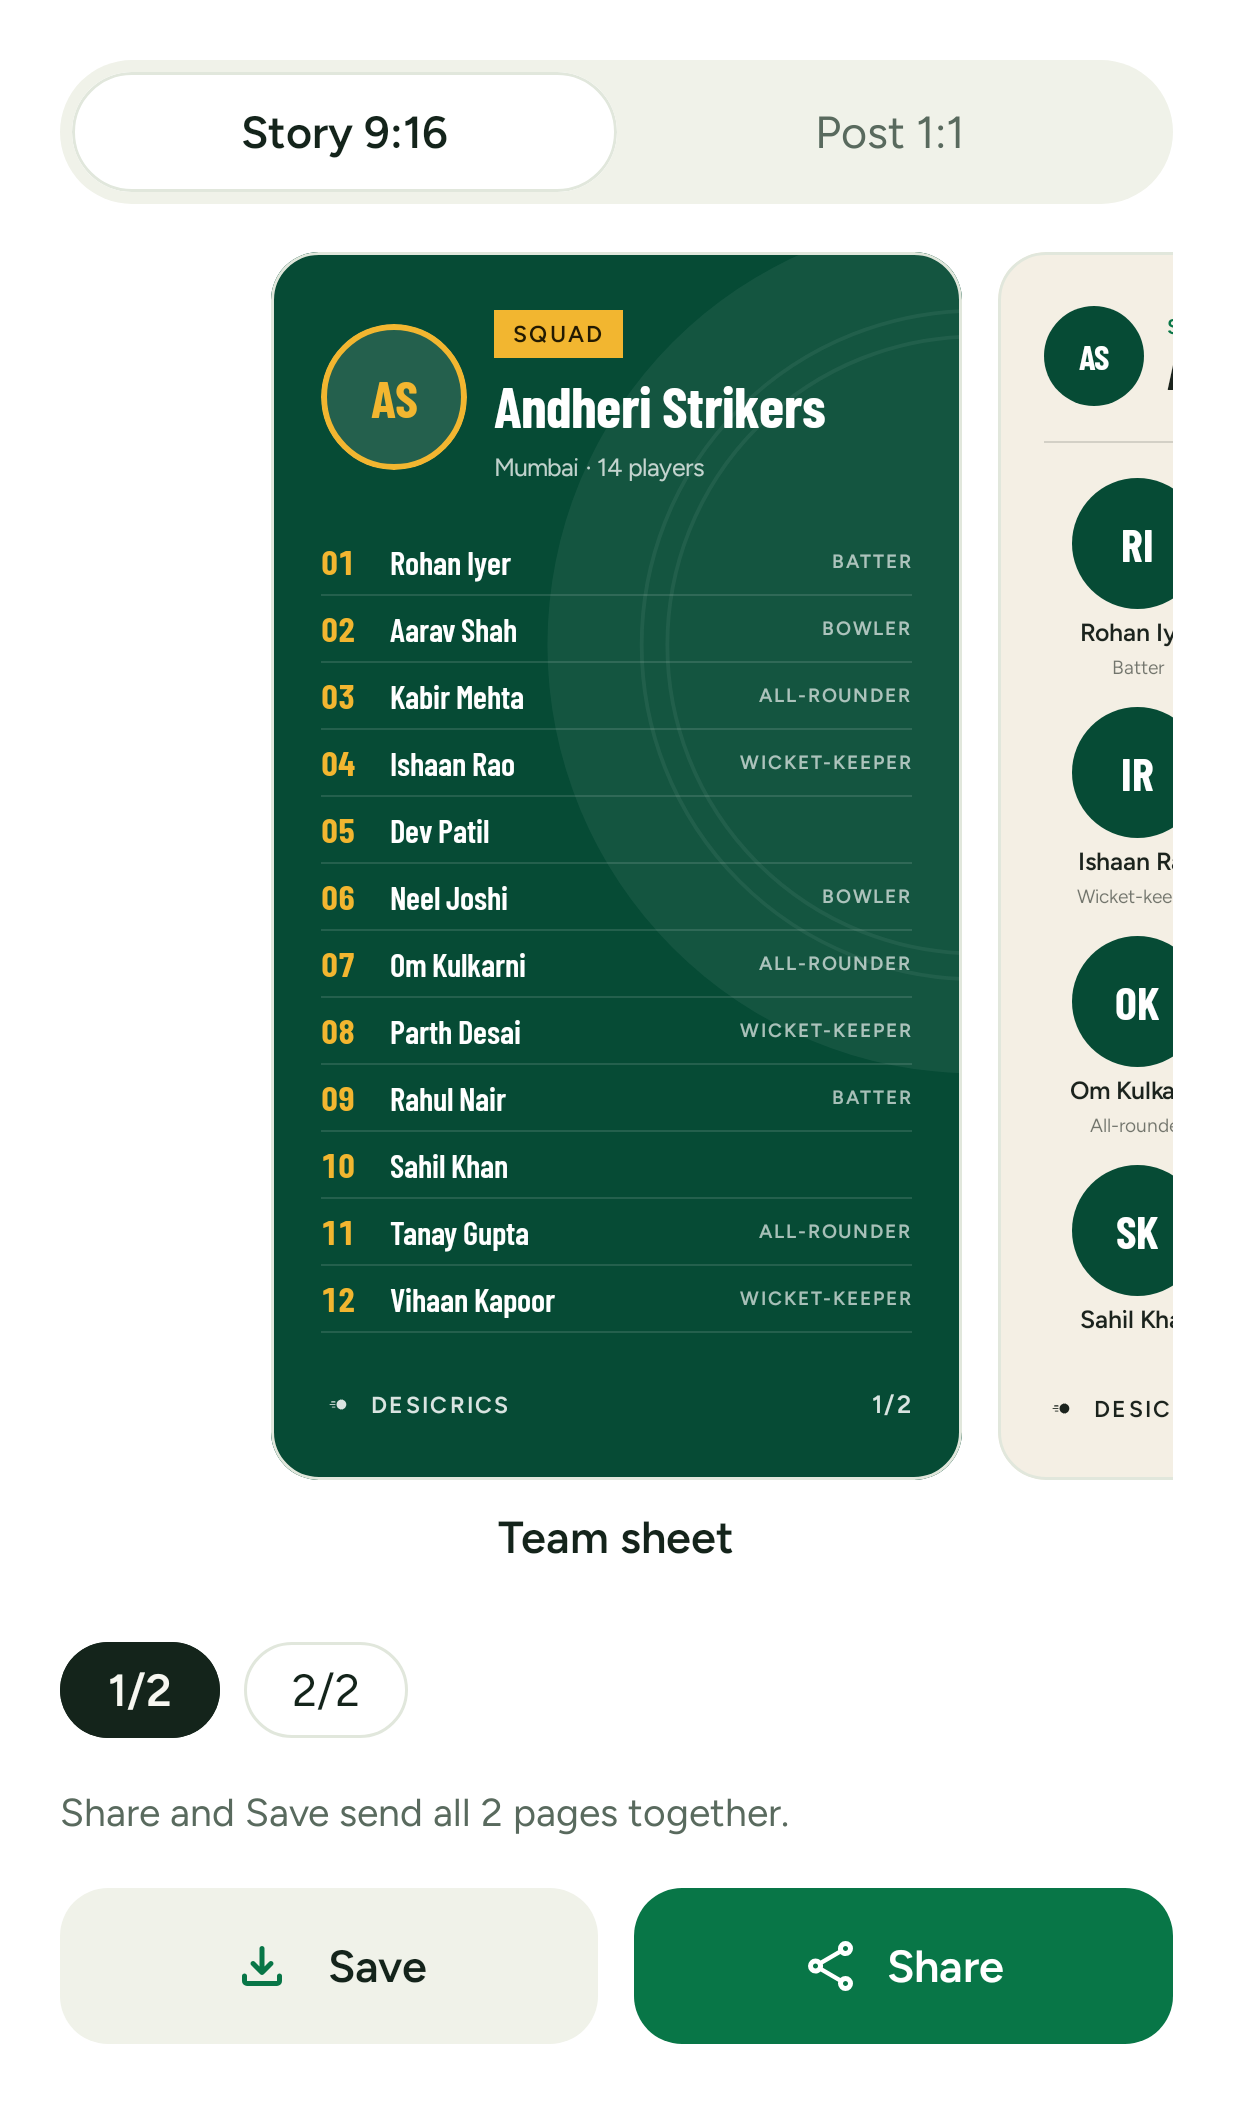
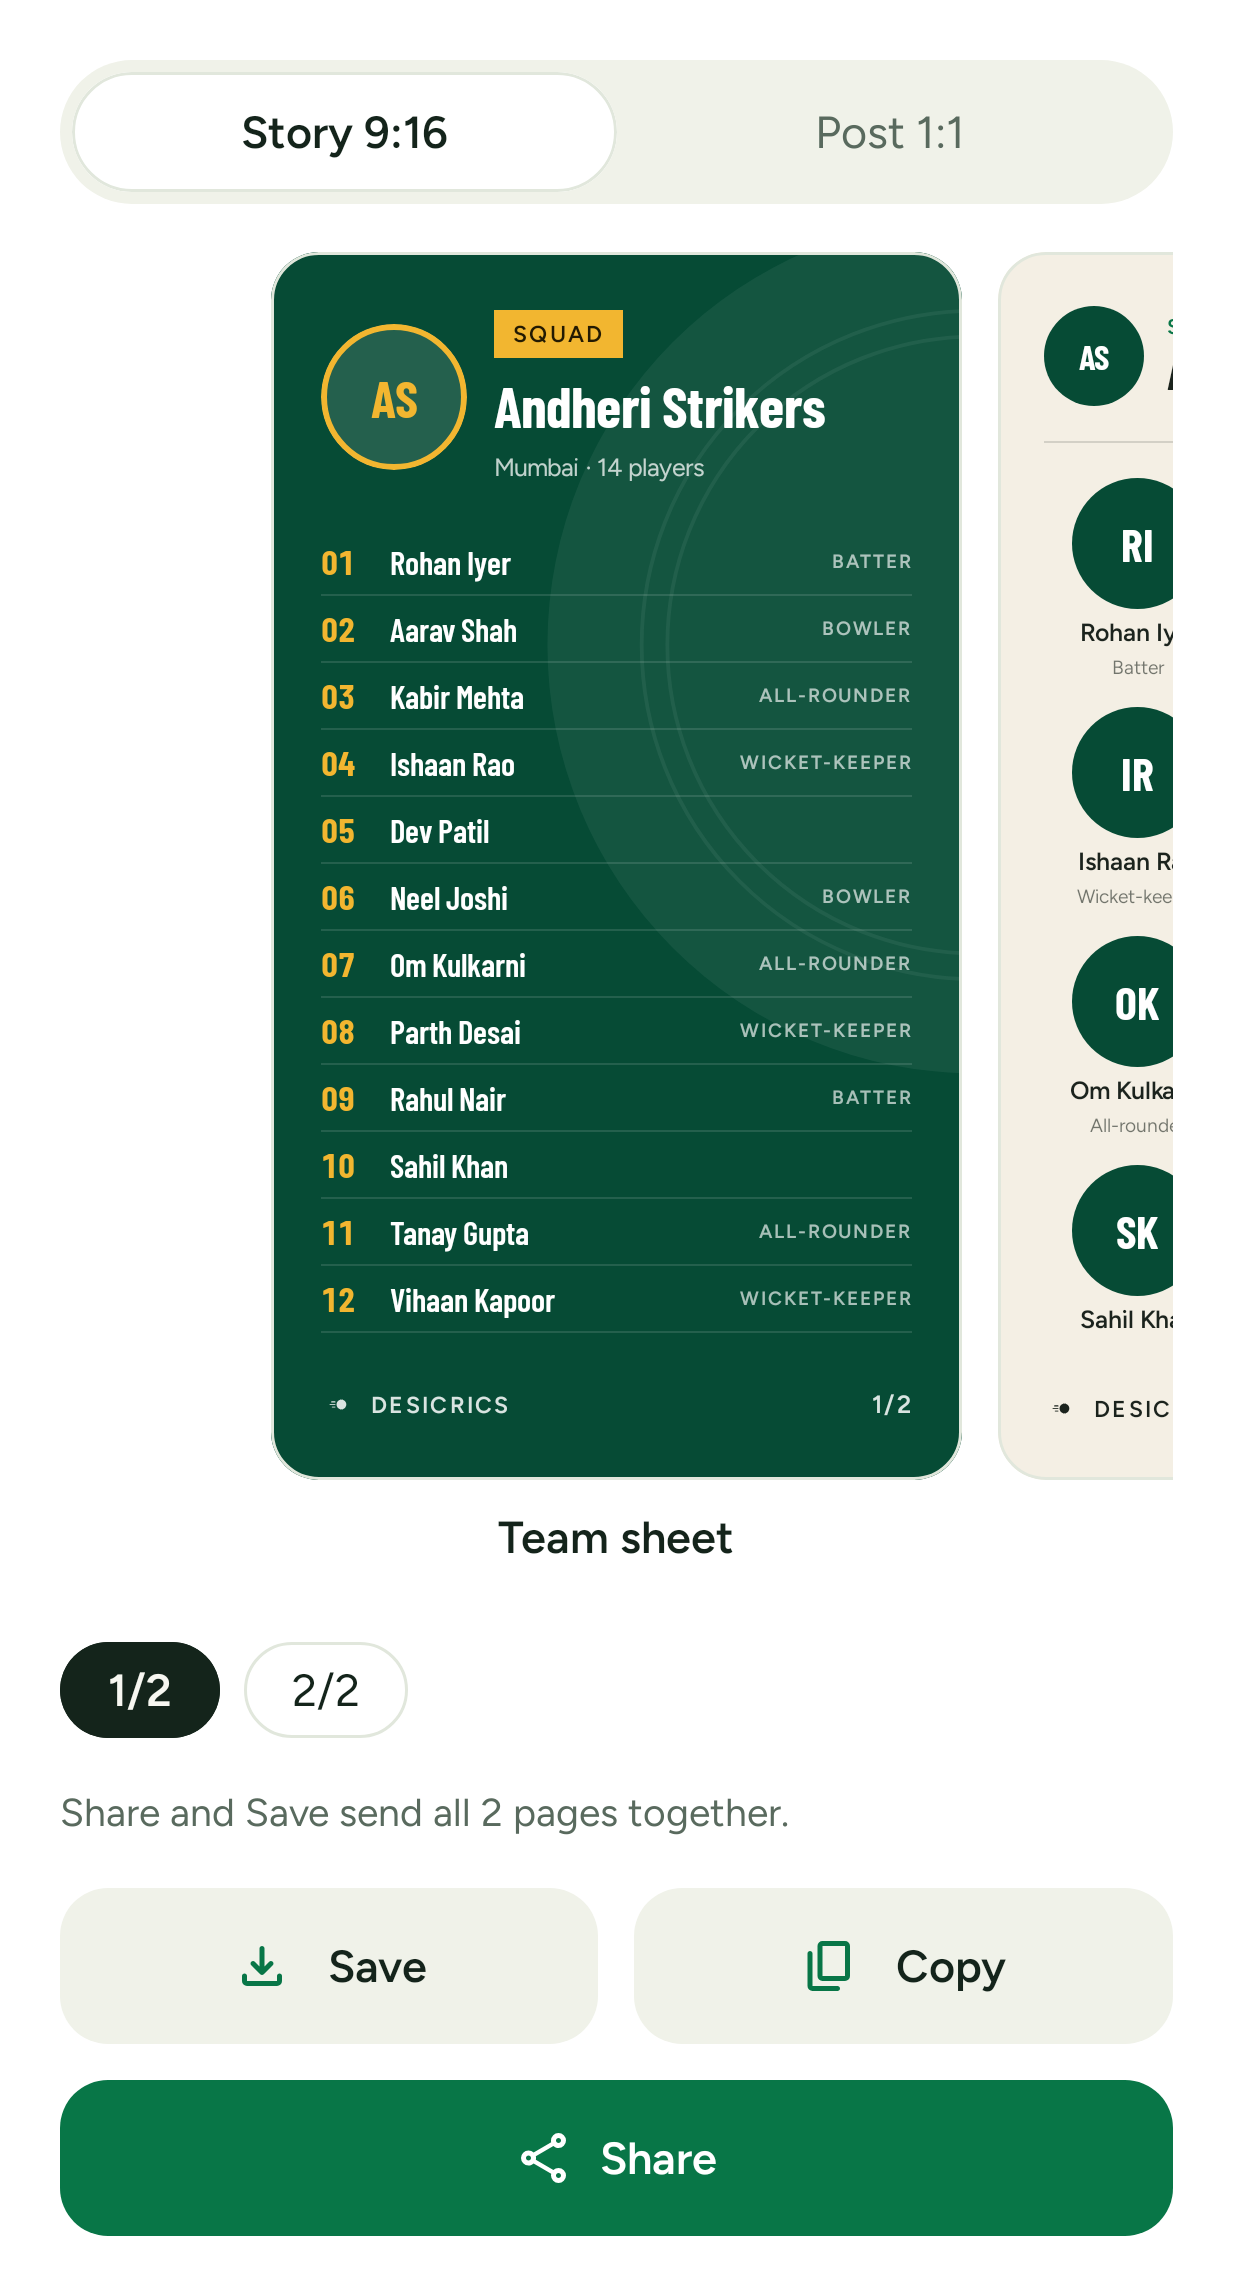
Let the share studio copy a card to the clipboard
A Copy button next to Save puts the page on show on the clipboard, ready
to paste into a chat. Save and Copy share a row and Share takes the full
width under them, since three buttons don't fit a small phone.

diff --git a/app/shared/src/commonMain/kotlin/com/harsh/desicrics/ui/share/ShareStudio.kt b/app/shared/src/commonMain/kotlin/com/harsh/desicrics/ui/share/ShareStudio.kt
@@ -51,18 +51,20 @@ import com.harsh.desicrics.designsystem.icon.DesiIcons
 import com.harsh.desicrics.designsystem.theme.DesiTheme
 import com.harsh.desicrics.resources.*
 import com.harsh.desicrics.ui.system.ImageFileFormat
+import com.harsh.desicrics.ui.system.rememberCopyImage
 import com.harsh.desicrics.ui.system.rememberSaveImage
 import com.harsh.desicrics.ui.system.rememberShareImage
 import kotlinx.coroutines.launch
 import org.jetbrains.compose.resources.painterResource
+import org.jetbrains.compose.resources.StringResource
 import org.jetbrains.compose.resources.stringResource
 
 /**
  * The share studio: one sheet for every picture DesiCrics makes. The user picks what to share from
  * [contents] (when there's more than one), swipes through its templates as live previews, picks story or
- * post, then shares the picture or saves it to the gallery. The picture is recorded from the preview
+ * post, then shares the picture, copies it, or saves it to the gallery. The picture is recorded from the preview
  * itself at full size, so it's exactly what was shown. A template with several pages shows a page picker,
- * and Share and Save take every page together.
+ * and Share and Save take every page together; Copy takes the page on show.
  *
  * [initial] is the key of the content to open on; [look] is the theme pictures are drawn in.
  */
@@ -76,6 +78,7 @@ fun ShareStudio(
 ) {
     val shareImage = rememberShareImage()
     val saveImage = rememberSaveImage()
+    val copyImage = rememberCopyImage()
     DesiSheet(title, onDismiss) {
         ShareStudioContent(
             contents,
@@ -83,17 +86,23 @@ fun ShareStudio(
             look = look,
             onShare = { images, format, _ -> shareImage(images, format) },
             onSave = { image, format, name -> saveImage(image, format, name) },
+            onCopy = { image, format -> copyImage(image, format) },
         )
     }
 }
 
 /** What the studio last did, for the line under its buttons. */
-private enum class StudioNote { SAVED, SAVE_FAILED }
+private enum class StudioNote(val text: StringResource, val failed: Boolean) {
+    SAVED(Res.string.share_saved, false),
+    SAVE_FAILED(Res.string.share_save_failed, true),
+    COPIED(Res.string.share_copied, false),
+    COPY_FAILED(Res.string.share_copy_failed, true),
+}
 
 /**
  * The studio without its sheet or the platform's share and save, so tests can draw it. [onShare] gets
  * every page of the picture (usually one), its file format and a file name; [onSave] is called once per
- * page, with "-1", "-2"… on the name when there's more than one.
+ * page, with "-1", "-2"… on the name when there's more than one; [onCopy] gets the page on show.
  */
 @Composable
 fun ShareStudioContent(
@@ -102,6 +111,7 @@ fun ShareStudioContent(
     look: ShareLook = ShareLook.Default,
     onShare: suspend (List<ImageBitmap>, ImageFileFormat, String) -> Unit,
     onSave: suspend (ImageBitmap, ImageFileFormat, String) -> Boolean,
+    onCopy: suspend (ImageBitmap, ImageFileFormat) -> Boolean,
 ) {
     val colors = DesiTheme.colors
     val space = DesiTheme.space
@@ -175,23 +185,40 @@ fun ShareStudioContent(
             if (pageCount > 1) PagePicker(pageCount, shownPage, onSelect = { picked = it })
             if (template.kind == TemplateKind.OVERLAY) OverlayNote(onPhoto, onToggle = { onPhoto = it })
             val fileName = "desicrics-${content.key}-${template.key}"
-            Row(horizontalArrangement = Arrangement.spacedBy(space.s3)) {
-                TonalButton(
-                    stringResource(Res.string.share_save),
-                    onClick = {
-                        scope.launch {
-                            busy = true
-                            val saved = layers.mapIndexed { i, layer ->
-                                onSave(layer.toImageBitmap(), template.kind.file, if (layers.size > 1) "$fileName-${i + 1}" else fileName)
+            // Three buttons don't fit a small phone side by side, so Share, the main one, gets its own row.
+            Column(verticalArrangement = Arrangement.spacedBy(space.s3)) {
+                Row(horizontalArrangement = Arrangement.spacedBy(space.s3)) {
+                    TonalButton(
+                        stringResource(Res.string.share_save),
+                        onClick = {
+                            scope.launch {
+                                busy = true
+                                val saved = layers.mapIndexed { i, layer ->
+                                    onSave(layer.toImageBitmap(), template.kind.file, if (layers.size > 1) "$fileName-${i + 1}" else fileName)
+                                }
+                                note = if (saved.all { it }) StudioNote.SAVED else StudioNote.SAVE_FAILED
+                                busy = false
                             }
-                            note = if (saved.all { it }) StudioNote.SAVED else StudioNote.SAVE_FAILED
-                            busy = false
-                        }
-                    },
-                    leadingIcon = DesiIcons.Download,
-                    enabled = !busy,
-                    modifier = Modifier.weight(1f),
-                )
+                        },
+                        leadingIcon = DesiIcons.Download,
+                        enabled = !busy,
+                        modifier = Modifier.weight(1f),
+                    )
+                    TonalButton(
+                        stringResource(Res.string.share_copy),
+                        onClick = {
+                            scope.launch {
+                                busy = true
+                                val copied = onCopy(layers[shownPage].toImageBitmap(), template.kind.file)
+                                note = if (copied) StudioNote.COPIED else StudioNote.COPY_FAILED
+                                busy = false
+                            }
+                        },
+                        leadingIcon = DesiIcons.Copy,
+                        enabled = !busy,
+                        modifier = Modifier.weight(1f),
+                    )
+                }
                 PrimaryButton(
                     stringResource(Res.string.share_action),
                     onClick = {
@@ -203,15 +230,15 @@ fun ShareStudioContent(
                     },
                     leadingIcon = DesiIcons.Share,
                     enabled = !busy,
-                    modifier = Modifier.weight(1f),
+                    modifier = Modifier.fillMaxWidth(),
                 )
             }
         }
         note?.let {
             Text(
-                stringResource(if (it == StudioNote.SAVED) Res.string.share_saved else Res.string.share_save_failed),
+                stringResource(it.text),
                 style = DesiTheme.type.caption,
-                color = if (it == StudioNote.SAVED) colors.muted else colors.event.wicket,
+                color = if (it.failed) colors.event.wicket else colors.muted,
                 modifier = Modifier.fillMaxWidth(),
                 textAlign = TextAlign.Center,
             )

diff --git a/app/shared/src/androidMain/kotlin/com/harsh/desicrics/ui/system/Share.android.kt b/app/shared/src/androidMain/kotlin/com/harsh/desicrics/ui/system/Share.android.kt
@@ -1,6 +1,8 @@
 package com.harsh.desicrics.ui.system
 
 import android.Manifest
+import android.content.ClipData
+import android.content.ClipboardManager
 import android.content.ContentValues
 import android.content.Context
 import android.content.Intent
@@ -64,6 +66,32 @@ actual fun rememberShareImage(): suspend (images: List<ImageBitmap>, format: Ima
             }
             send.setType(format.mimeType).addFlags(Intent.FLAG_GRANT_READ_URI_PERMISSION)
             context.startActivity(Intent.createChooser(send, null).addFlags(Intent.FLAG_ACTIVITY_NEW_TASK))
+        }
+    }
+}
+
+/**
+ * Writes the picture to the same cache folder as shared ones and puts its FileProvider URI on the
+ * clipboard; the app that pastes it is granted read access. It has its own file name, so a later share
+ * doesn't swap the picture out from under the clipboard.
+ */
+@Composable
+actual fun rememberCopyImage(): suspend (image: ImageBitmap, format: ImageFileFormat) -> Boolean {
+    val context = LocalContext.current
+    return remember(context) {
+        { image, format ->
+            val uri = withContext(Dispatchers.IO) {
+                runCatching {
+                    val dir = File(context.cacheDir, "shared").apply { mkdirs() }
+                    val file = File(dir, "desicrics-copied.${format.extension}")
+                    check(file.outputStream().use { image.write(format, it) })
+                    FileProvider.getUriForFile(context, "${context.packageName}.share", file)
+                }.getOrNull()
+            }
+            val clipboard = context.getSystemService(ClipboardManager::class.java)
+            uri != null && clipboard != null && runCatching {
+                clipboard.setPrimaryClip(ClipData.newUri(context.contentResolver, ALBUM, uri))
+            }.isSuccess
         }
     }
 }

diff --git a/app/designsystem/src/commonMain/kotlin/com/harsh/desicrics/designsystem/icon/DesiIcons.kt b/app/designsystem/src/commonMain/kotlin/com/harsh/desicrics/designsystem/icon/DesiIcons.kt
@@ -64,6 +64,7 @@ import com.harsh.desicrics.designsystem.resources.ic_groups
 import com.harsh.desicrics.designsystem.resources.ic_location_on
 import com.harsh.desicrics.designsystem.resources.ic_mic
 import com.harsh.desicrics.designsystem.resources.ic_more_horiz
+import com.harsh.desicrics.designsystem.resources.ic_content_copy
 import com.harsh.desicrics.designsystem.resources.ic_notifications
 import com.harsh.desicrics.designsystem.resources.ic_person
 import com.harsh.desicrics.designsystem.resources.ic_remove
@@ -100,6 +101,7 @@ object DesiIcons {
     val Notifications: DrawableResource = Res.drawable.ic_notifications
     val Share: DrawableResource = Res.drawable.ic_share
     val Download: DrawableResource = Res.drawable.ic_download
+    val Copy: DrawableResource = Res.drawable.ic_content_copy
     val Teams: DrawableResource = Res.drawable.ic_groups
     val Mic: DrawableResource = Res.drawable.ic_mic
     val ChevronRight: DrawableResource = Res.drawable.ic_chevron_right

diff --git a/app/shared/src/androidHostTest/kotlin/com/harsh/desicrics/ShareStudioScreenshotTest.kt b/app/shared/src/androidHostTest/kotlin/com/harsh/desicrics/ShareStudioScreenshotTest.kt
@@ -133,14 +133,14 @@ class ShareStudioScreenshotTest {
     @Test
     fun studio() = shoot("studio") {
         Box(Modifier.background(DesiTheme.colors.surface).padding(20.dp)) {
-            ShareStudioContent(contents, initial = battingShareKey(1, "a0"), onShare = { _, _, _ -> }, onSave = { _, _, _ -> true })
+            ShareStudioContent(contents, initial = battingShareKey(1, "a0"), onShare = { _, _, _ -> }, onSave = { _, _, _ -> true }, onCopy = { _, _ -> true })
         }
     }
 
     @Test
     fun studioDark() = shoot("studio_dark", dark = true) {
         Box(Modifier.background(DesiTheme.colors.surface).padding(20.dp)) {
-            ShareStudioContent(contents, initial = "result", onShare = { _, _, _ -> }, onSave = { _, _, _ -> true })
+            ShareStudioContent(contents, initial = "result", onShare = { _, _, _ -> }, onSave = { _, _, _ -> true }, onCopy = { _, _ -> true })
         }
     }
 }

diff --git a/app/shared/src/commonMain/kotlin/com/harsh/desicrics/ui/system/Share.kt b/app/shared/src/commonMain/kotlin/com/harsh/desicrics/ui/system/Share.kt
@@ -30,3 +30,10 @@ expect fun rememberShareImage(): suspend (images: List<ImageBitmap>, format: Ima
  */
 @Composable
 expect fun rememberSaveImage(): suspend (image: ImageBitmap, format: ImageFileFormat, name: String) -> Boolean
+
+/**
+ * Puts a picture on the clipboard, so it can be pasted straight into a chat. The returned function says
+ * whether it was copied.
+ */
+@Composable
+expect fun rememberCopyImage(): suspend (image: ImageBitmap, format: ImageFileFormat) -> Boolean

diff --git a/app/shared/src/androidHostTest/kotlin/com/harsh/desicrics/TournamentPosterScreenshotTest.kt b/app/shared/src/androidHostTest/kotlin/com/harsh/desicrics/TournamentPosterScreenshotTest.kt
@@ -226,7 +226,7 @@ class TournamentPosterScreenshotTest {
     @Test
     fun studio() = shoot("posters_studio") {
         Box(Modifier.background(DesiTheme.colors.surface).padding(20.dp)) {
-            ShareStudioContent(tournamentShareContents(league), onShare = { _, _, _ -> }, onSave = { _, _, _ -> true })
+            ShareStudioContent(tournamentShareContents(league), onShare = { _, _, _ -> }, onSave = { _, _, _ -> true }, onCopy = { _, _ -> true })
         }
     }
 }

diff --git a/app/shared/src/androidHostTest/kotlin/com/harsh/desicrics/MatchPosterScreenshotTest.kt b/app/shared/src/androidHostTest/kotlin/com/harsh/desicrics/MatchPosterScreenshotTest.kt
@@ -161,7 +161,7 @@ class MatchPosterScreenshotTest {
     @Test
     fun studioPages() = shoot("poster_studio_pages") {
         Box(Modifier.background(DesiTheme.colors.surface).padding(20.dp)) {
-            ShareStudioContent(listOf(squad), onShare = { _, _, _ -> }, onSave = { _, _, _ -> true })
+            ShareStudioContent(listOf(squad), onShare = { _, _, _ -> }, onSave = { _, _, _ -> true }, onCopy = { _, _ -> true })
         }
     }
 }
